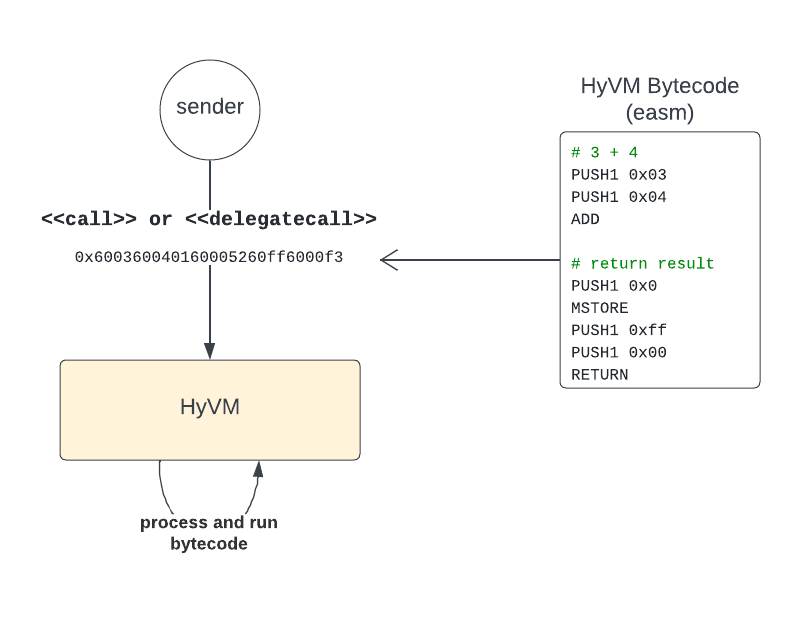
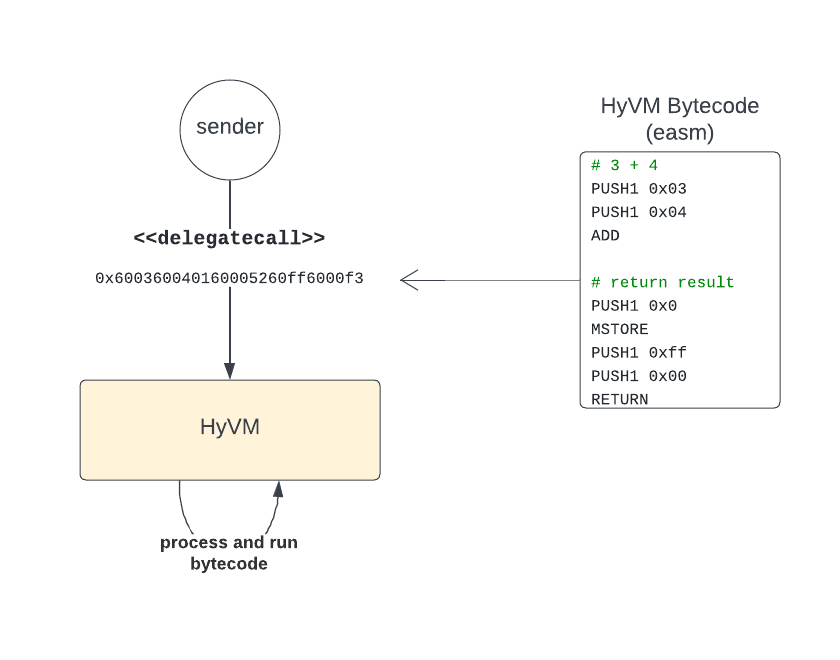
fix: ensure delegatecall context (#36)
Ensure that execution is in a context of a delegate call.
If not, it will open the door to selfdestruct the HyVM and
more security problems for users.

diff --git a/README.md b/README.md
@@ -43,16 +43,9 @@ There is no limit on which interactions that can be created.
 Custom and complex logic with chained calls can be executed by the HyVM opening a lot possibilities.
 Repetitive intructions and common ones could also be called as helper contract if needed.
 
-## Examples of use
+## How to use the HyVM
 
-### Static functions / get rid of helpers
-The most straightforward use is for readonly functions: no need to deploy helper contracts to do lots of things !
-
-👉 For instance, see [this gist](https://gist.github.com/oguimbal/3cc74f6234a006fd9685333381679657) which demonstrates how to fetch multiple balances on-chain at once.
-
-### More general use
-
-Another way to use the HyVM is to use it as a library called with delegatecall.
+The way to use the HyVM is to use it as a library called with delegatecall.
 As shown below, a [contract wallet](https://decommas.io/blog/smart-contract-wallets-explained) allows to execute a delegatecall (or several), and thus to call the HyVM. The DApp managing the contract wallet gives the bytecode for the HyVM to execute. For example:
 * Swap multiple assets.
 * Approve & deposit.
@@ -65,7 +58,7 @@ As shown below, a [contract wallet](https://decommas.io/blog/smart-contract-wall
 
 ### Calling the HyVM
 
-The HyVM ingests raw bytecode (as input) via `call` or `delegateCall`, then processes the opcodes and executes them.
+The HyVM ingests raw bytecode (as input) via `delegateCall`, then processes the opcodes and executes them.
 
 <div align="center">
   <img width="600" alt="image" src="./static/processBytecode.png">
